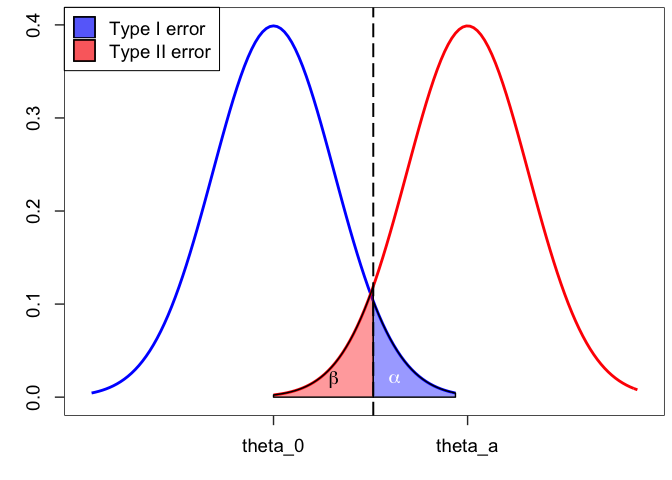
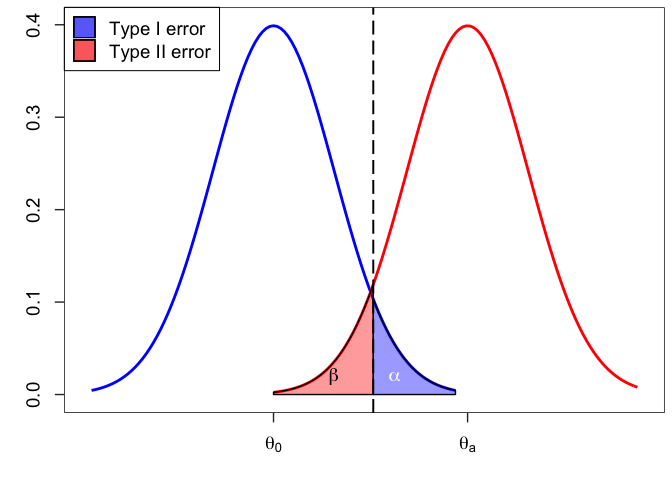
Assignment4 Lab4

diff --git a/assignment4_Lab4.md b/assignment4_Lab4.md
@@ -9,7 +9,25 @@ Taehoon Ha
 
 ### 3. Write the R code using ggplot function to recreate the graph from the Lecture 8 notes
 
-![assignment4 pic](https://ws1.sinaimg.cn/large/006tNbRwly1fw2hifct7ej30ya0immza.jpg)
+``` r
+curve(dnorm, from=-3, to=3, xlim=c(-3, 6), lwd=2, col=4, axes=FALSE, xlab=NA, ylab=NA)
+curve(dnorm(x, mean=3.2), add=TRUE, col=2, lwd=2, from=0, to=6)
+coord.x <- c(qnorm(0.95), seq(qnorm(0.95), 0, by=-0.01), 0)
+coord.y <- c(0, dnorm(coord.x[-c(1, length(coord.x))], mean=3.2), 0) 
+polygon(coord.x, coord.y, col=rgb(1, 0, 0, 0.5)) 
+coord.x <- c(qnorm(0.95), seq(qnorm(0.95), 3, by=0.01), 3) 
+coord.y <- c(0, dnorm(coord.x[-c(1, length(coord.x))]), 0) 
+polygon(coord.x, coord.y, col=rgb(0, 0, 1, 0.5)) 
+abline(v = qnorm(0.95), lty=2, lwd=2) 
+text(1, 0.02, labels = expression(beta)) 
+text(2, 0.02, labels = expression(alpha), col = "white") 
+axis(1, at = c(0, 3.2), labels = c(expression(theta[0]), expression(theta[a]))) 
+axis(2) 
+box() 
+legend("topleft", c("Type I error", "Type II error"), fill=c(rgb(0, 0, 1, 0.5), rgb(1, 0, 0, 0.5)))
+```
+
+![](assignment4_Lab4_files/figure-markdown_github/unnamed-chunk-1-1.png)
 
 ``` r
 ggplot(NULL, aes(x = c(-3, 6), y = c(0, 0.4))) +
@@ -79,10 +97,10 @@ ggplot(NULL, aes(x = c(-3, 6), y = c(0, 0.4))) +
                       label = c("Type I error",
                                 "Type II error")) +
   scale_x_continuous(breaks = c(0, 3.2), 
-                     labels = c(expression(theta[0]), expression(theta[1])))
+                     labels = c(expression(theta[0]), expression(theta[a])))
 ```
 
-![](assignment4_Lab4_files/figure-markdown_github/unnamed-chunk-1-1.png)
+![](assignment4_Lab4_files/figure-markdown_github/unnamed-chunk-2-1.png)
 
 ### 4. Implement a function that will check if a given positive integer is a prime number.
 
